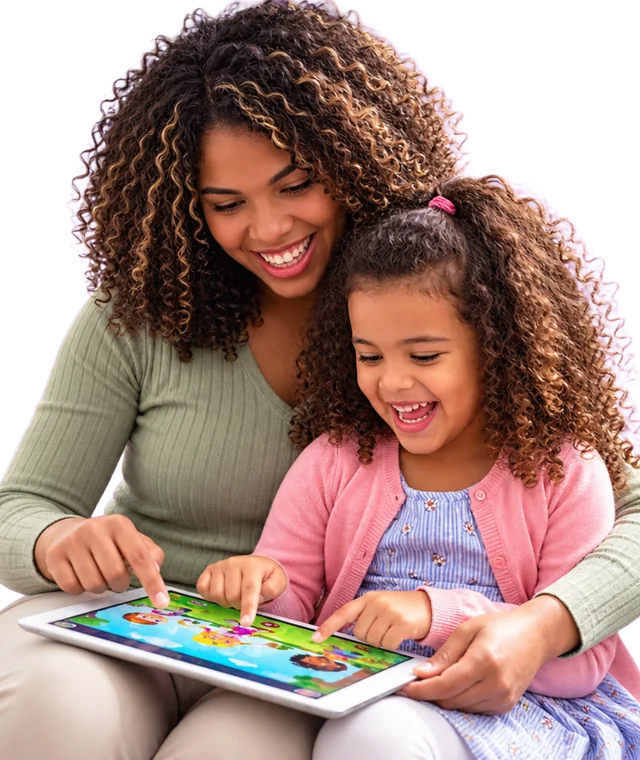
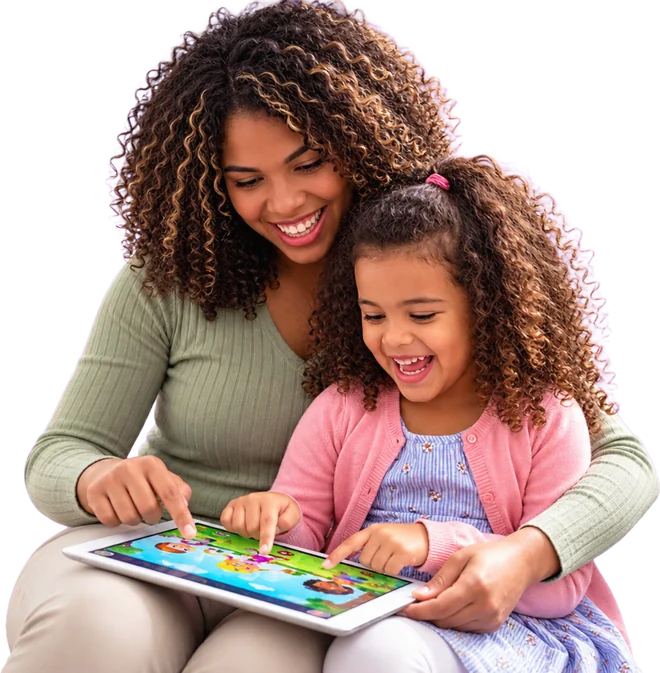
Fix the broken preview images and stop cutting the dashboard photo
Three faults in the dashboard band:

- The two activity thumbnails showed as broken images in the shared preview.
  The bundler inlined images from a hard-coded list, so any picture added after
  it was written was left as a relative path the single-file preview cannot
  resolve. It now inlines every file in assets/img, longest name first, and the
  bundle is checked for leftover asset paths.
- The photograph was cut in from the original upload: the earlier crop took
  about 90px off each side of the cut-out. It is rebuilt from the original at
  its own alpha bounds (1255x1280 of the source), and the slot now carries that
  shape with object-fit: contain, so no edge is ever sliced off.
- The picture and the card ended on different lines. The picture no longer
  bleeds into the band's bottom padding; its bottom edge now lines up exactly
  with the card's, and the columns are rebalanced to give it the extra width
  its wider shape needs.

Verified in Chromium at 1400: photo box 246x251 against a 660x673 source (same
shape, nothing cropped), photo bottom flush with the card bottom, both
thumbnails decoded at 128x128, every stat label on one line, heading on two.
No broken images anywhere in the preview bundle; 31 pages, 1298 internal links,
no broken links or unbalanced tags.

Claude-Session: https://claude.ai/code/session_01AgUMYPYFt6ZZiQ8bGyyM6e

diff --git a/assets/css/etern.css b/assets/css/etern.css
@@ -1199,7 +1199,7 @@ svg.shape { background: none; }
 }
 
 .dash-band__grid { display: grid; gap: 2.5rem; align-items: center; }
-@media (min-width: 1280px) { .dash-band__grid { grid-template-columns: 1fr 1.91fr 0.69fr; gap: 2rem; } }
+@media (min-width: 1280px) { .dash-band__grid { grid-template-columns: 1fr 1.83fr 0.77fr; gap: 2rem; } }
 
 .dash-band h2 { font-size: clamp(1.6rem, 1.15rem + 1.35vw, 2.1rem); line-height: 1.25; }
 /* Beside the card the heading holds its two sentences on two lines, so it is
@@ -1225,19 +1225,19 @@ svg.shape { background: none; }
 .dash-band__link:hover { color: oklch(1 0 0); }
 .dash-band__link:hover svg { transform: translateX(5px); }
 
-/* the photo column, cropped by the band like the reference */
+/* the photo column, ending on the same line as the card */
 .dash-band__photo { display: none; align-self: end; }
 @media (min-width: 1280px) {
-  .dash-band__photo { display: block; margin-bottom: -4.5rem; }
+  .dash-band__photo { display: block; }
 }
-/* The slot keeps its box whatever the source is: a portrait illustration and a
-   landscape photograph both fill the same footprint, so swapping the file never
-   moves the column. */
+/* The slot holds the cut-out's own shape and fits the whole picture inside it,
+   so nothing is ever sliced off an edge; a differently shaped file keeps the
+   same column width and simply sits shorter or taller in it. */
 .dash-band__photo img {
   width: 100%;
-  aspect-ratio: 640 / 760;
-  object-fit: cover;
-  object-position: 50% 10%;
+  aspect-ratio: 1255 / 1280;
+  object-fit: contain;
+  object-position: bottom center;
 }
 
 /* the card ---------------------------------------------------------- */
@@ -1261,7 +1261,7 @@ svg.shape { background: none; }
   border: 1px solid var(--border);
   border-radius: var(--radius-md);
   background: var(--card);
-  padding: 0.75rem 0.7rem;
+  padding: 0.75rem 0.6rem;
 }
 /* icon above the label, so a two-word label still fits on one line */
 .dash__stat-head { display: flex; flex-direction: column; align-items: flex-start; gap: 0.4rem; }

diff --git a/README.md b/README.md
@@ -129,11 +129,12 @@ and finally the illustration.
 - A **cut-out with a transparent background** (PNG or WebP) sits best on the
   violet; a photo with its own background will show that background as a
   rectangle.
-- The slot crops to a **portrait 640 × 760 box** with `object-fit: cover`, so a
-  landscape photo keeps the exact same column width and alignment but loses its
-  outer edges. Crop the subjects to roughly 4:5 first for the best result.
-- To shift what survives the crop, change `object-position` on
-  `.dash-band__photo img` in `assets/css/etern.css`.
+- The slot is sized to the current cut-out's shape (1255 × 1280) and uses
+  `object-fit: contain`, so the whole picture is always shown — a differently
+  shaped file keeps the same column width and simply sits shorter or taller in
+  it, never cropped. Change `aspect-ratio` on `.dash-band__photo img` to match a
+  new picture's own proportions.
+- The picture's bottom edge lines up with the dashboard card's bottom edge.
 
 The two Recent Activity rows in the same card use the app's own artwork,
 `assets/img/activity-stories.webp` and `assets/img/activity-self-help.webp` —
